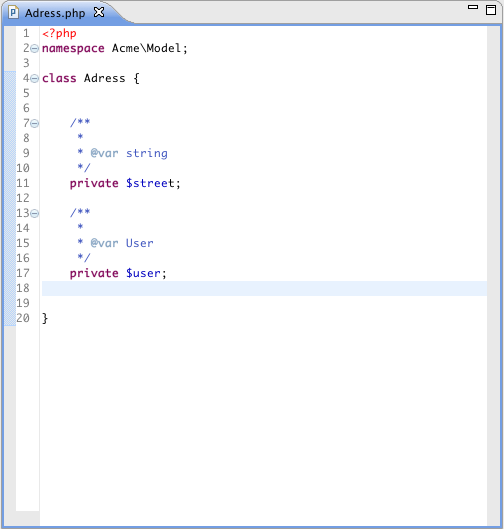
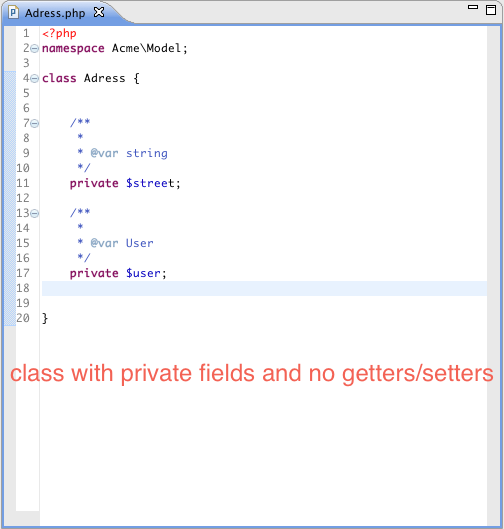
added additional updatesite sections

Changed region(s): [[0.0, 0.6654, 0.9821, 0.7259]]

diff --git a/index.html b/index.html
@@ -51,10 +51,12 @@
 			<ul id="mainul">
 				<li class="ui-corner-bottom"><a href="#tabs-1">About</a></li>
 				<li class="ui-corner-bottom"><a href="#tabs-2">Installation</a></li>
+				<li class="ui-corner-bottom"><a href="#tabs-3">Usage / Screenshots</a></li>
+				<li class="ui-corner-bottom"><a href="#tabs-4">Issues</a></li>
 			</ul>
 			
 			<div id="tabs-1" class="tabdiv">
-				<p>The PDT Extensions Plugin provides some additional features for the <a href="http://www.eclipse.org/projects/project.php?id=tools.pdt"> PHP Development Tools</a> Eclipse plugin.</p>				
+				<p>The PDT Extensions Plugin provides some additional (OOP) features for the Eclipse <a href="http://www.eclipse.org/projects/project.php?id=tools.pdt"> PHP Development Tools</a>.</p>				
 
 				<div class="feature_wrapper">
 					<h2>Class Wizard</h2>
@@ -69,9 +71,28 @@
 
 			</div>
 			
-			<div id="tabs-2" class="tabdiv">			
-				<p>To install the plugin, simple add the updatesite to your eclipse installation and install the "PDT Extension Feature":</p>				
-				<h2>http://pulse00.github.com/PDT-Extensions/</h2>
+			<div id="tabs-2" class="tabdiv">
+			
+			
+				<p>To install the plugin, simple add the updatesite to your eclipse installation and install the "PDT Extensions Feature":</p>
+				<div class="feature_wrapper">				
+					<h2 id="updatesitelink"><a href="http://pulse00.github.com/PDT-Extensions/">http://pulse00.github.com/PDT-Extensions/</a></h2>
+					<img src="web/images/pdt_updatesite.png" alt="updatesite"></img>
+				</div>
+			</div>
+			
+			<div id="tabs-3" class="tabdiv">		
+			
+				<p>The "PHP Class" action can be found in the "New" context menu when right clicking on packages in the PHP project explorer.</p>					
+				<img src="web/images/generated.png" alt="class generator screenshot"></img>
+				
+				<p>To create Getters/Setters for class fields, use the "Generate Getters and Setters" from the "Source" entry in the top menu bar.</p>
+				<img src="web/images/bare_adress.png" alt="no getter/setter screenshot"></img>
+				<img src="web/images/generated_getter_setter.png" alt="getter_setter screenshot"></img>
+			</div>
+			
+			<div id="tabs-4" class="tabdiv">			
+				<p>Please report any bugs or feature request as a <a href="https://github.com/pulse00/PDT-Extensions/issues">Github Issue.</a></p>
 			</div>
 			
 			

diff --git a/web/plugin.css b/web/plugin.css
@@ -356,3 +356,9 @@ div.feature_wrapper {
  margin-bottom: 30px;
 	
 }
+
+#updatesitelink {
+
+	margin-bottom: 50px;
+	
+}
